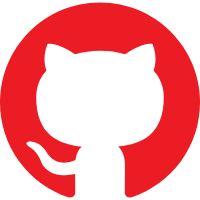
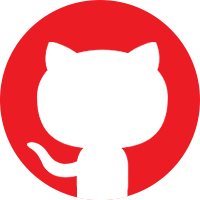
0705

diff --git a/index.html b/index.html
@@ -52,15 +52,15 @@
                             </a> 
                             <a class="button-find-detail slider-href-item"  href="https://twitter.com/GameChainWorld" target="_blank">
                                 <div><img src="./img/slider/twitter.png"></div>
-                                <span id="" >JOIN OUR TWITTER</span>
+                                <span id="" >FOLLOW OUR TWITTER</span>
+                            </a> 
+                            <a class="button-find-detail slider-href-item"  href="https://medium.com/@gamechainworld" target="_blank">
+                                <div><img src="./img/slider/medium.png"></div>
+                                <span id="" >FOLLOW OUR MEDIUM</span>
                             </a> 
                             <a class="button-find-detail slider-href-item"  href="https://github.com/GameChainWorld" target="_blank">
                                 <div><img src="./img/slider/github.png"></div>
-                                <span id="" >VISIT OUR GITHUB</span>
-                            </a> 
-                            <a class="button-find-detail slider-href-item"  href="info@gamechain.world" target="_blank">
-                                <div><img src="./img/slider/email.png"></div>
-                                <span id="" >SEND EMAIL</span>
+                                <span id="" >FOLLOW OUR GITHUB</span>
                             </a> 
                         </div>
                     </li>
@@ -400,7 +400,7 @@
                     <div class="team-item-content">
                         <div class="col-lg-3 col-md-3 team-item" >
                             <div class="team-member3 team-member"> 
-                                <a class="member1 member" href="http://www.i-neeq.com/Company/F10CompanyGLC_s.aspx?symbol=430303&sname=" target="_blank" style="background-image: url('./img/person/person13.png'); cursor: default;">
+                                <a class="member1 member" href="http://www.i-neeq.com/Company/F10CompanyGLC_s.aspx?symbol=430303&sname=" target="_blank" style="background-image: url('./img/person/person13.png');">
                                     <div class="team-item-img-linkedin"><i class="fa fa-chain"></i></div>
                                 </a>       
                                 <p class="name" id="team_name_item13">李翀</p>  

diff --git a/js/language.js b/js/language.js
@@ -125,14 +125,14 @@ var cn = {
     team_work_item02: '联合创始人  CTO',
     team_text_item02: '上海交通大学软件硕士，完美世界(002624)研究中心工程师，VR黄埔军校著称的中视典原CTO，C²engine创始人。15年游戏行业经验，多款盈利商业大作。自2014年即着手研究区块链在游戏行业的应用。',
     
-    team_name_item03: 'Frank Liu',
-    team_work_item03: '系统架构师',
-    team_text_item03: '新加坡南洋理工大学博士后研究员，拥有多项专利知识产权，数学功底深厚。对三维图形学、密码学、点对点通讯、区块链共识机制、深度学习有深入研究。',
-
-    team_name_item04: '毛杰',
-    team_work_item04: '联合创始人  COO',
-    team_text_item04: '原上海钢联副总及董事，从创业到上市一路打拼。上海钢联电子商务股份有限公司（股票代码：300226）是集钢铁资讯、电子商务、网络技术服务为一体的全国性大型综合IT服务企业，提供专业的钢铁资讯交互平台、一站式钢铁电子商务服务。',
+    team_name_item03: '毛杰',
+    team_work_item03: '联合创始人  COO',
+    team_text_item03: '原上海钢联副总及董事，从创业到上市一路打拼。上海钢联电子商务股份有限公司（股票代码：300226）是集钢铁资讯、电子商务、网络技术服务为一体的全国性大型综合IT服务企业，提供专业的钢铁资讯交互平台、一站式钢铁电子商务服务。',
     
+    team_name_item04: 'Frank Liu',
+    team_work_item04: '系统架构师',
+    team_text_item04: '新加坡南洋理工大学博士后研究员，拥有多项专利知识产权，数学功底深厚。对三维图形学、密码学、点对点通讯、区块链共识机制、深度学习有深入研究。',
+
     team_name_item05: '辛晓琦',
     team_work_item05: '运营总监',
     team_text_item05: '拥有11年的游戏行业经验，曾经参与过多款大型网络游戏的制作，其中包括《星球大战：旧共和国》。有多年高负荷游戏项目开发的管理经验和运营经验。',

diff --git a/js/head-bottom.js b/js/head-bottom.js
@@ -82,6 +82,14 @@ var bottomText =
                     '<a class="contact-right-text" href="https://github.com/GameChainWorld" target="_blank">https://github.com/GameChainWorld</a>' +
                 '</div>' +
                 '<div class="contact-item">' +
+                    '<span id="contact_linkedin">LINKEDIN</span>' +
+                    '<a class="contact-right-text" href="https://www.linkedin.com/company/gamechain" target="_blank">https://www.linkedin.com/company/gamechain</a>' +
+                '</div>' +
+                '<div class="contact-item">' +
+                    '<span id="contact_medium">MEDIUM</span>' +
+                    '<a class="contact-right-text" href="https://medium.com/@gamechainworld" target="_blank">https://medium.com/@gamechainworld</a>' +
+                '</div>' +
+                '<div class="contact-item">' +
                     '<span id="contact_mail">EMAIL</span>' +
                     '<a class="contact-right-text" href="mailto:info@gamechain.world" target="_blank">info@gamechain.world</a>' +
                 '</div>' +

diff --git a/css/sequence-slider.css b/css/sequence-slider.css
@@ -360,7 +360,7 @@ h3 {
 #sequence .load-pdf-content .button-find-detail{
     background: url(../img/slider/007.png) no-repeat;
     background-size: 100% 100%;
-    width: 280px;
+    width: 25rem;
     color: #fff;
     height: 38px;
     line-height: 38px;
@@ -431,12 +431,10 @@ h3 {
     padding: 0;
 }
 #sequence .load-pdf-content .slider-href-item > div{
-    width: 15%;
+    width: 12%;
 }
 #sequence .load-pdf-content .slider-href-item > div > img{
     width: 100%;
-    background-color: #fff;
-    border-radius: 50%;
 }
 
 #sequence .load-pdf-content .slider-href-item > span{
